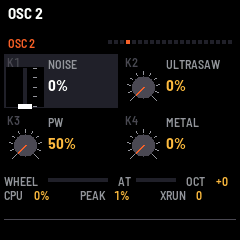
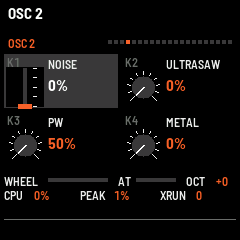
MB-1 0.12.2: the screen in the site's dark colours
Black, the panel's grey (#3b3b3b) for slots, caps and rules, white labels, ticks and pointers, orange values
(the dark sheet's display) and orange for what is being turned. The manual's pictures redone.

Claude-Session: https://claude.ai/code/session_015VhpbL4VK8RUpw8F1mPpMk

diff --git a/app/app.c b/app/app.c
@@ -1363,7 +1363,7 @@ static void ray(int32_t cx, int32_t cy, float deg, float r0, float r1, uint16_t 
 static void ctl_draw(uint32_t p, uint32_t v, int32_t cx, int32_t cy, int lit)
 {
     uint32_t max = pmax(p), kind = ctl_kind(p), k;
-    uint16_t hand = lit ? C_WHITE : C_ACCENT;
+    uint16_t hand = lit ? C_ACCENT : C_WHITE;   /* (white, as on the dark sheet; orange while turned) */
     if (kind == K_FADER) {                   /* a slot, a cap at the level, ticks beside */
         int32_t top = cy - 19, h = 38, at = top + h - (int32_t)(v * (uint32_t)h / (max ? max : 1u));
         for (k = 0; k <= 4u; k++)
@@ -1386,7 +1386,7 @@ static void ctl_draw(uint32_t p, uint32_t v, int32_t cx, int32_t cy, int lit)
         for (k = 0; k < n; k++)
             ray(cx, cy, a0 + step * (float)k, 13.0f, (bip && k == 5u) || k == 0u || k + 1u == n ? 18.0f : 16.0f,
                 en && k == v ? C_WHITE : C_GRAY);
-        disk(cx, cy, 11, C_DIM);
+        disk(cx, cy, 11, C_LINE);
         {   /* the pointer: three strokes wide */
             float a = en ? a0 + step * (float)(v < n ? v : 0u) : -135.0f + 270.0f * (float)v / (float)(max ? max : 1u);
             ray(cx, cy, a, 0.0f, 10.0f, hand);
@@ -1506,6 +1506,13 @@ static void draw(void)
 
 void app_ui_init(void)
 {
+    /* the site's dark look (tools/site_theme.py, the patch editor's dark sheet): black, the panel's grey, white
+     * labels and ticks, orange values (its display's) and highlights */
+    pal[0] = RGB(59, 59, 59);                /* C_LINE: the panel's grey #3b3b3b (slots, knob caps, rules) */
+    pal[1] = RGB(110, 110, 110);             /* C_DIM: what is off, K1..K4 */
+    pal[2] = RGB(236, 236, 236);             /* C_GRAY: the labels, the ticks: the sheet's white ink */
+    pal[3] = RGB(166, 166, 166);             /* C_AMB: secondary text #a6a6a6 */
+    pal[4] = RGB(240, 96, 40);               /* C_HI: the values, as the sheet's display has them: #f06028 */
     touch_on(1);
     lcd_fill(0, 0, 240, 240, C_BLACK);
     ui.redraw = 1;
